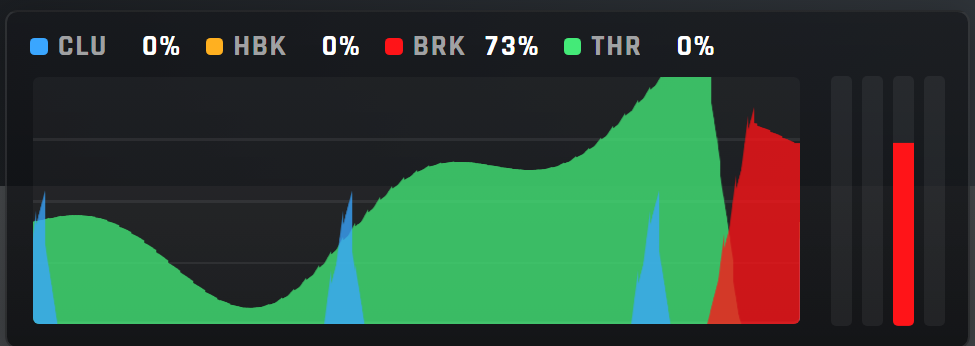
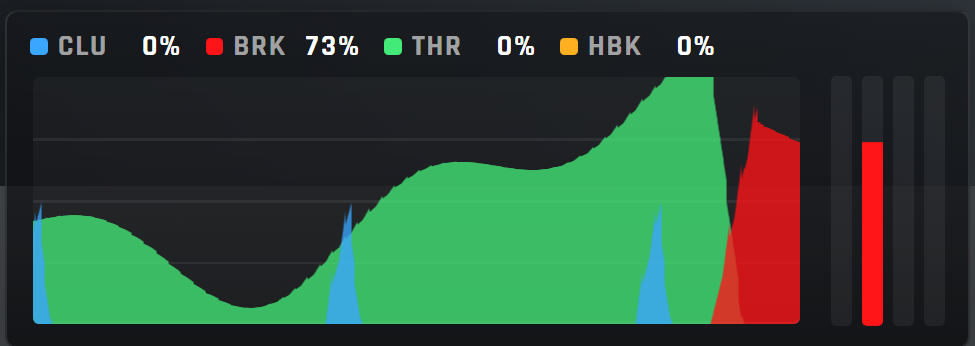
reordering the inputs

diff --git a/tests/widget/harness.html b/tests/widget/harness.html
@@ -77,10 +77,23 @@ window.ModelCurrentCar = { has_focused_car: true, gas_percent: 0.5, brake_percen
     const grab = function () {
         tracks = Array.prototype.slice.call(root.querySelectorAll(".pg-track"));
         bars = tracks.map(function (el) { return Array.prototype.slice.call(el.querySelectorAll(".pg-bar")); });
-        levels = Array.prototype.slice.call(root.querySelectorAll(".pg-lvl > div"));
-        vals = Array.prototype.slice.call(root.querySelectorAll(".pg-val"));
+        // by channel index, not DOM order: legend items and level bars are laid out in
+        // reading order, and only the five inputs have a level bar and a readout
+        const inputs = PedalGraph.TRACES.filter(function (trace) { return trace.kind !== PedalGraph.KIND.mark; });
+        levels = inputs.map(function (trace, t) { return root.querySelector(".pg-lvl[data-trace=\"" + t + "\"] > div"); });
+        vals = inputs.map(function (trace, t) { return root.querySelector(".pg-item[data-trace=\"" + t + "\"] .pg-val"); });
     };
     grab();
+    const readingOrder = function (selector) {
+        return Array.prototype.slice.call(root.querySelectorAll(selector)).map(function (el) { return el.getAttribute("data-trace"); }).join(",");
+    };
+
+    t("the legend, the level bars and the input switches share one reading order: clutch, brake, throttle, handbrake, steering; the marks after", function () {
+        eq(readingOrder(".pg-row .pg-item"), "0,2,3,1,4", "legend in reading order");
+        eq(readingOrder(".pg-lvl"), "0,2,3,1,4", "and the level bars match it");
+        eq(readingOrder(".pg-legend.pg-marks .pg-item"), "5,6,7", "the marks after them, ABS, TC, ESC");
+        eq(readingOrder(".pg-track"), "0,1,2,3,4,5,6,7", "the strips stay in channel order: they stack by z-index, nothing visible depends on it");
+    });
 
     t("attach builds 8 strips x (2N + 1 spare) bars (4 pedals, steering, 3 marks), 5 levels, 5 readouts; panel and loop wired", function () {
         eq(PedalGraph.BAR_COUNT, 2 * N + 1, "two halves and one spare for the wrap");
@@ -240,7 +253,7 @@ window.ModelCurrentCar = { has_focused_car: true, gas_percent: 0.5, brake_percen
         const sections = specs.filter(function (spec) { return spec.type === "section"; }).map(function (spec) { return spec.key + (spec.columns === 2 ? "*" : "") + (spec.collapsed ? "!" : ""); });
         eq(sections.join(","), "layout,inputs*,marks*,look*!,stack!,demo!", "six sections: two-column where the rows are switches; Look, Draw order and Demo start folded");
         eq(keys.slice(0, 5).join(","), "layout,scale," + [S.window, S.height].join(",") + ",inputs", "Layout: the loader's scale spec, history and plot height");
-        eq(keys.slice(5, 11).join(","), "showThrottle,showBrake,showHandbrake,showClutch,showSteering,marks", "one switch per input, throttle first");
+        eq(keys.slice(5, 11).join(","), "showClutch,showBrake,showThrottle,showHandbrake,showSteering,marks", "one switch per input, in the legend's reading order");
         eq(keys.slice(11, 15).join(","), "markAbs,markTc,markEsc,look", "then the assist marks");
         eq(keys.slice(15).join(","), [S.weight, S.bg, S.legend, S.levels, S.readouts, S.grid, "stack", S.order, "demo", S.attract].join(","), "then the look, the draw order and the demo");
         eq(Object.keys(settings.all("pedalgraph")).indexOf("layout"), -1, "sections carry no value");
@@ -271,8 +284,8 @@ window.ModelCurrentCar = { has_focused_car: true, gas_percent: 0.5, brake_percen
 
     t("switching an input off hides its legend item, strip and level bar and stops drawing it; history keeps recording", function () {
         window.ModelCurrentCar = { has_focused_car: true, gas_percent: 0.6, brake_percent: 0.2, clutch_percent: 0, handbrake_percent: 0 };
-        const items = Array.prototype.slice.call(root.querySelectorAll(".pg-item"));
-        const boxes = Array.prototype.slice.call(root.querySelectorAll(".pg-lvl"));
+        const items = PedalGraph.TRACES.map(function (trace, t) { return root.querySelector(".pg-item[data-trace=\"" + t + "\"]"); });
+        const boxes = PedalGraph.TRACES.map(function (trace, t) { return root.querySelector(".pg-lvl[data-trace=\"" + t + "\"]"); });
         const t0 = 200000;
         clock.step(t0);
         settings.set("pedalgraph", "showThrottle", false);

diff --git a/pedalgraph/pedalgraph.js b/pedalgraph/pedalgraph.js
@@ -320,7 +320,14 @@ const PedalGraph = (function () {
     };
 
     /** One switch per input, listed throttle first: the order a driver thinks in. */
-    const inputSpecs = [GAS, BRAKE, HANDBRAKE, CLUTCH, STEER].map(function (t) { return channelSpec(TRACES[t]); });
+    /**
+     * The reading order of the inputs, everywhere a player sees them side by side: the
+     * legend, the level bars and the switches in the options. The pedals as they sit under
+     * the feet, left to right, then the handbrake, then steering. Not the TRACES order,
+     * which is the data-trace index the stylesheet keys colours on and must not move.
+     */
+    const INPUT_ORDER = [CLUTCH, BRAKE, GAS, HANDBRAKE, STEER];
+    const inputSpecs = INPUT_ORDER.map(function (t) { return channelSpec(TRACES[t]); });
     const markSpecs = TRACES.filter(function (trace) { return trace.kind === KIND.mark; }).map(channelSpec);
 
     const section = function (key, label, columns, collapsed) {
@@ -522,8 +529,16 @@ const PedalGraph = (function () {
         let marks = "";
         let tracks = "";
         let levels = "";
+        // legend items and level bars in reading order, the marks after the inputs; the
+        // strips in TRACES order, which nothing visible depends on (they stack by z-index)
+        const shown = INPUT_ORDER.concat(TRACES.map(function (trace, index) { return index; }).filter(function (index) {
+            return TRACES[index].kind === KIND.mark;
+        }));
 
-        TRACES.forEach(function (trace, index) {
+        TRACES.forEach(function (trace, index) { tracks += stripMarkup(index); });
+
+        shown.forEach(function (index) {
+            const trace = TRACES[index];
             const traceAttr = traceAttrs(index);
             const isMark = trace.kind === KIND.mark;
             const item = el("div", isMark ? CLASS.item + " " + CLASS.mark : CLASS.item, traceAttr)
@@ -535,8 +550,6 @@ const PedalGraph = (function () {
             // the marks get a legend line of their own: they are not inputs, and the line
             // only shows while one of them is on (applyView)
             if (isMark) { marks += item; } else { inputs += item; }
-
-            tracks += stripMarkup(index);
 
             if (!isMark) {
                 levels += el("div", CLASS.level, traceAttr) + el("div", CLASS.fill) + close("div") + close("div");

diff --git a/tests/test_app.py b/tests/test_app.py
@@ -14,7 +14,7 @@ JS = os.path.join(ROOT, "pedalgraph", "pedalgraph.js")
 
 class Tests(AppTests):
     ROOT = ROOT
-    MIN_CASES = 30
+    MIN_CASES = 31
     HOT_PATH = ("const commitSample", "// ---- lifecycle")
 
 

diff --git a/README.md b/README.md
@@ -66,7 +66,7 @@ through the HUD reload and a restart. Click a section header to fold it.
 | | |
 |---|---|
 | **Layout** | Panel scale, how many seconds of driving the graph shows (3, 5 or 10), and a low, normal or tall plot. |
-| **Inputs** | Which of throttle, brake, clutch, handbrake and steering are drawn. A hidden one keeps recording, so it has its history when you turn it back on. |
+| **Inputs** | Which of clutch, brake, throttle, handbrake and steering are drawn. A hidden one keeps recording, so it has its history when you turn it back on. |
 | **Assist marks** | ABS, TC and ESC: a tick along the top wherever the electronics stepped in, with a legend line of their own. Off by default. |
 | **Look** | Faint, normal or bold traces; a dark, light or no background; the legend, level bars, readouts and grid lines on or off. Legend off leaves only the graph. |
 | **Draw order** | Drag to choose which input paints over which. |
@@ -160,5 +160,5 @@ Cohtml-specific, so a change still needs one launch and a look at the log.
 ---
 
 <div align="center">
-<sub>Pedal Graph 0.8.4 · needs ACE UI App Loader 0.23.0 or newer</sub>
+<sub>Pedal Graph 0.8.5 · needs ACE UI App Loader 0.23.0 or newer</sub>
 </div>
